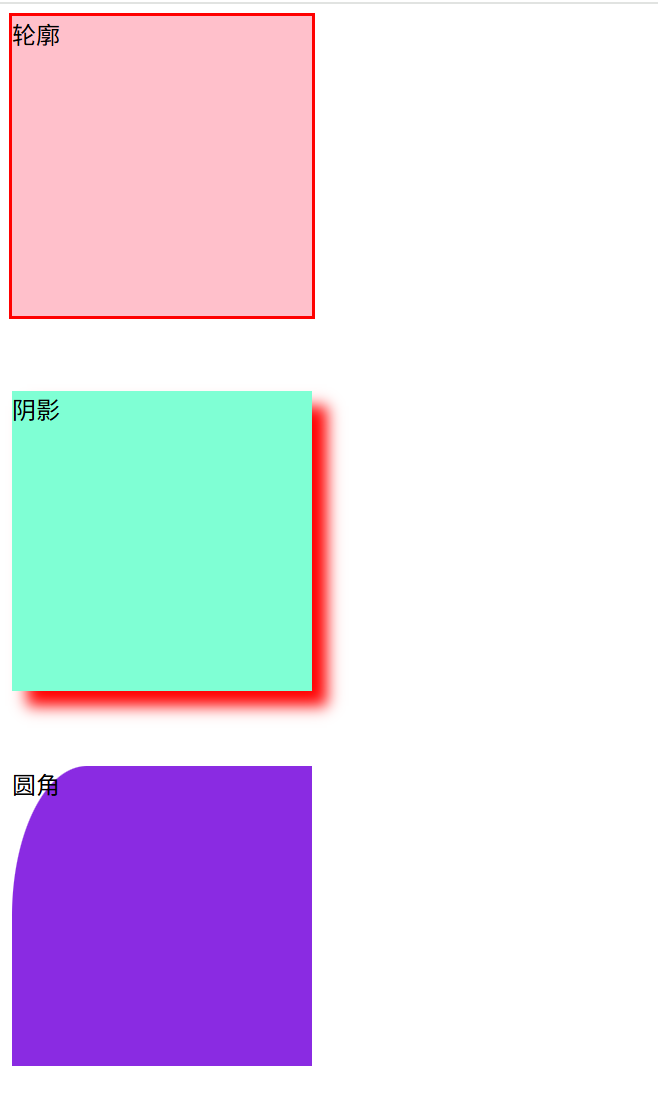
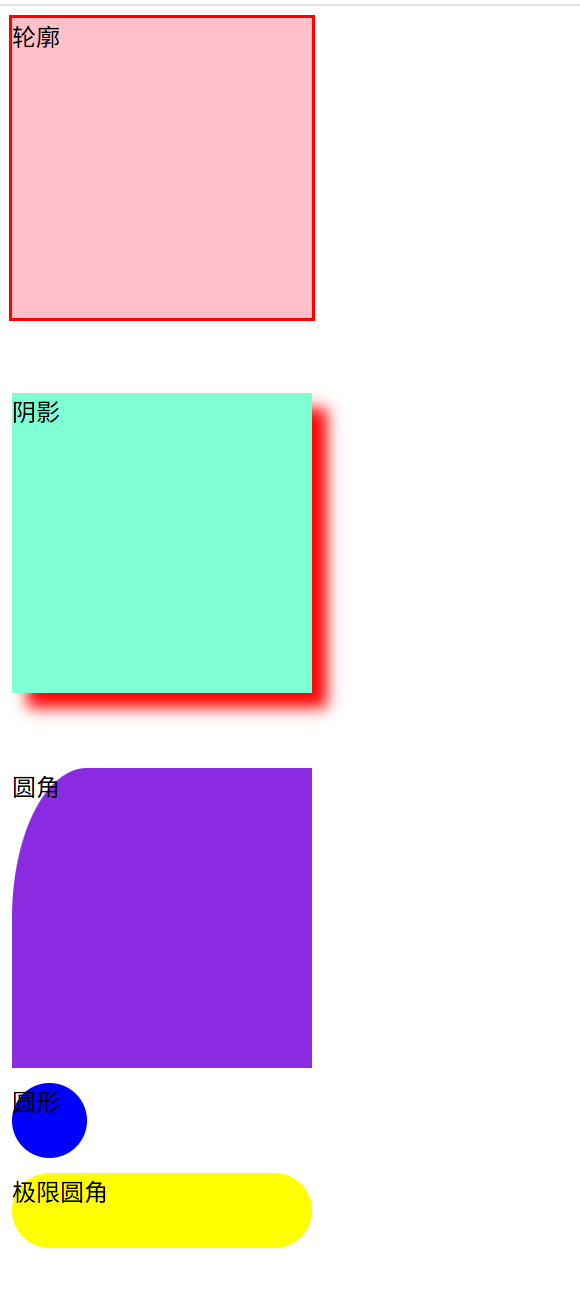
圆形和极限圆角

Changed region(s): [[0.0, 0.0, 0.5897, 0.9918]]

diff --git a/轮廓阴影和圆角.html b/轮廓阴影和圆角.html
@@ -34,6 +34,22 @@
             /* 可以设置两个值，为同个位置两个点的圆角大小 */
             border-top-left-radius:50px 100px
         }
+        .box4{
+            margin-top: 10px;
+            width: 50px;
+            height: 50px;
+            background-color: blue;
+            /* 圆形 */
+            border-radius: 50%;
+        }
+        .box5{
+            margin-top: 10px;
+            width: 200px;
+            height: 50px;
+            background-color: yellow;
+            /* 极限圆角 */
+            border-radius: 999px;
+        }
     </style>
 </head>
 <body>
@@ -45,6 +61,12 @@
     </div>
     <div class="box3">
         圆角
+    </div>
+    <div class="box4">
+        圆形
+    </div>
+    <div class="box5">
+        极限圆角
     </div>
 </body>
 </html>

diff --git a/README.md b/README.md
@@ -2679,5 +2679,9 @@
   * border-top-left-radius: 10px 100px;
   * 第一个值表示水平方向的圆角大小
   * 第二个值表示垂直方向的圆角大小
+* 圆形
+  * border-radius: 50%;
+* 极限圆角
+  * border-radius: 999px;
 [轮廓阴影和圆角](轮廓阴影和圆角.html)
 ![轮廓阴影和圆角](images/轮廓阴影和圆角.png)
